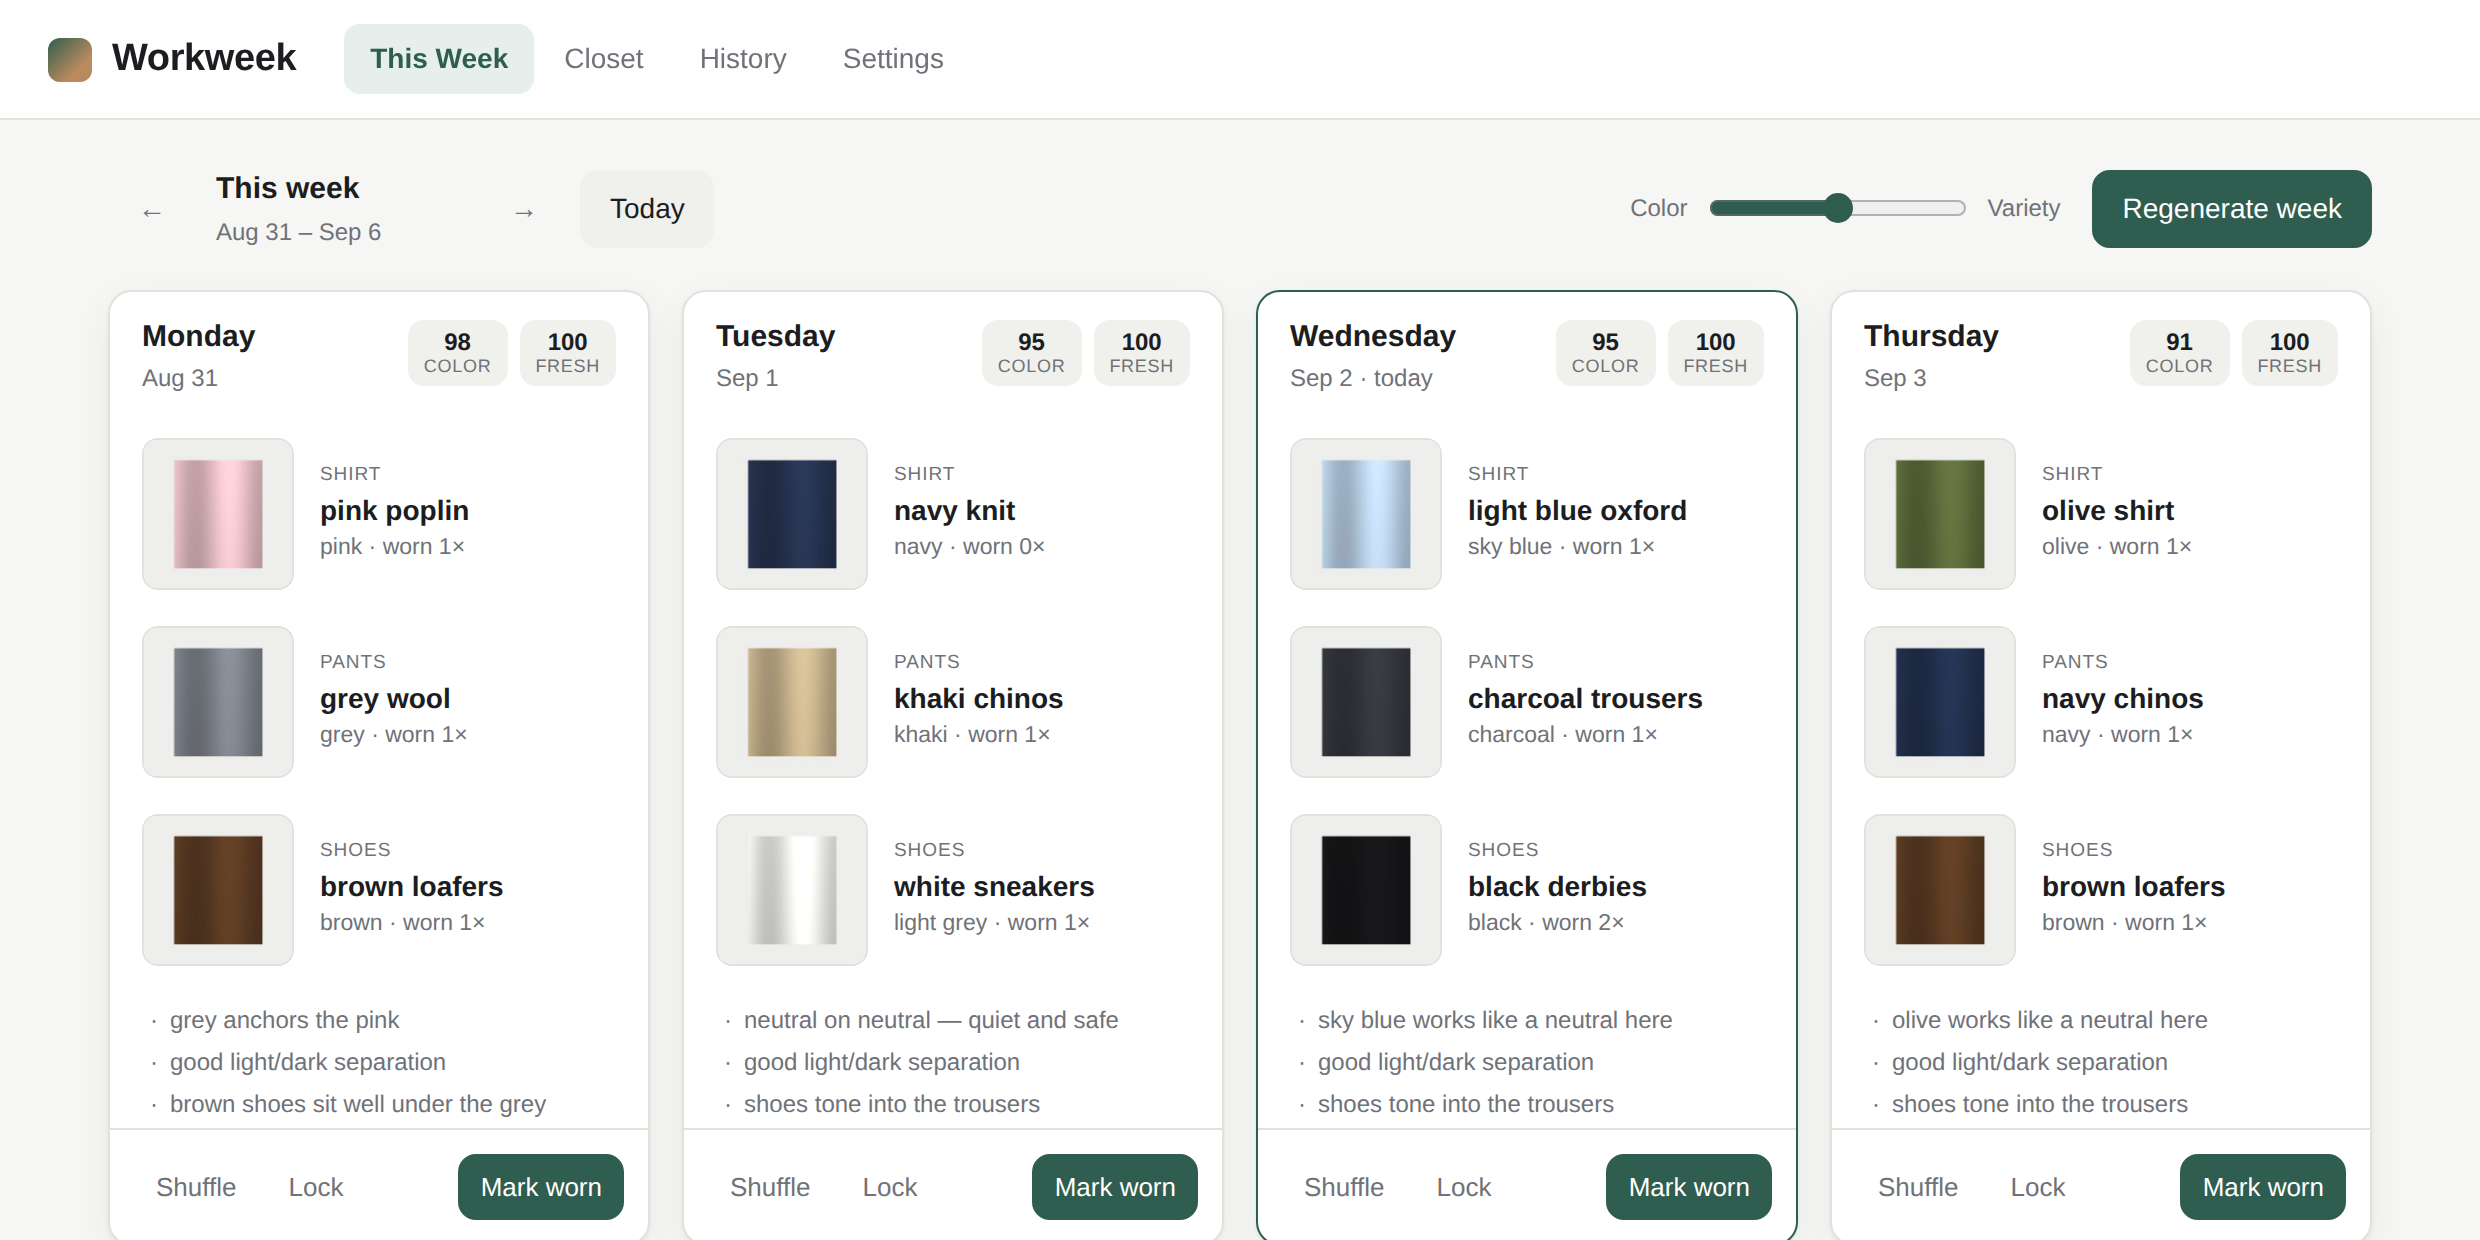
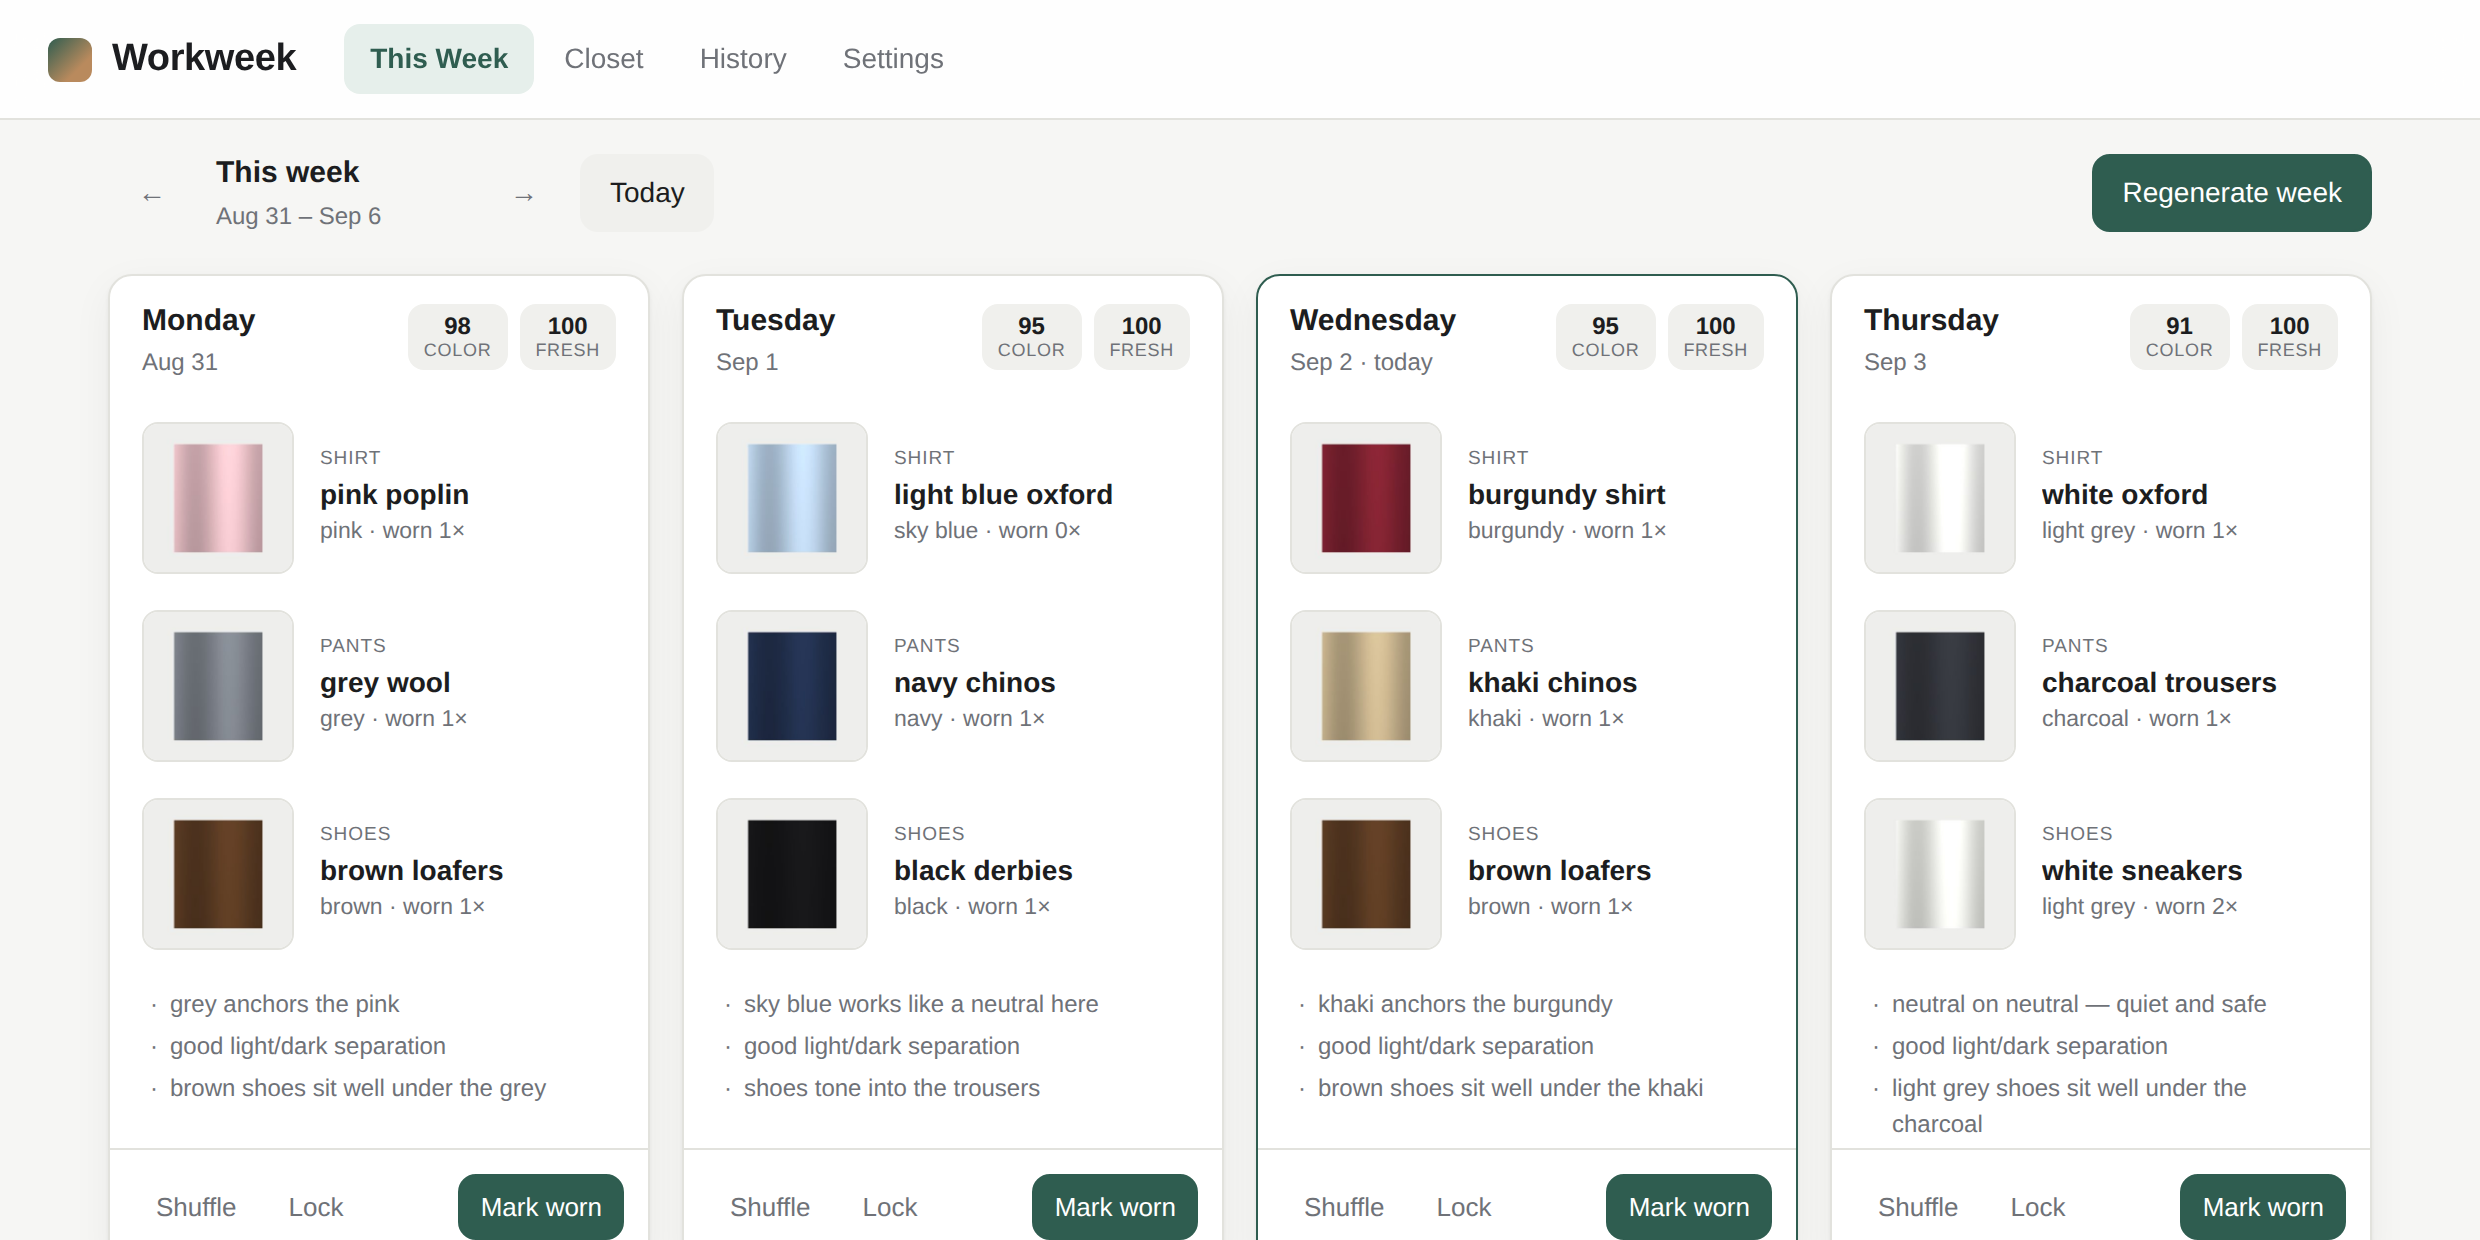
Remove the color/variety slider and fix the balance at a measured value
The blend is no longer a user setting. It is a constant in outfit.js, chosen by
simulation rather than taste, with the numbers recorded next to it.

Twelve-week runs, 20 per weight, over a 10-shirt / 7-trouser closet:

  weight   avg color   shirt spread   runs with spread <= 1
    0.50       94.0        1.00              20/20
    0.60       93.9        1.10              18/20
    0.70       94.0        1.10              18/20
    0.90       95.8       14.50   pieces going entirely unworn

Colour quality is flat between 0.5 and 0.7, so favouring it harder buys
nothing, and past 0.8 rotation collapses. 0.5 holds every wear count within one
of every other while scoring as well on colour as anything above it.

An earlier attempt made the weight adapt to the closet — leaning on variety
when some pieces had fallen behind, on colour when the rotation was even. It is
not in this commit because measuring it showed it earned nothing: newly added
clothes are scheduled in their first week at every weight from 0.3 to 0.7
(40/40 runs), since the variety score already scores a never-worn item at 100
on its own. Against a flat 0.5 the adaptive version was worse on rotation
(18/20 runs within one wear, against 20/20) and identical on colour.

Removes colorWeight from the stored settings; an old saved value is ignored
rather than honoured, which a test covers.

Claude-Session: https://claude.ai/code/session_017diFJ6E3PX5swqonS2Gxdn

diff --git a/tests/engine.test.js b/tests/engine.test.js
@@ -104,7 +104,7 @@ const closet = [
    ['suede chukkas', '#8a6a48']].map((r, i) => mk('h' + i, r[0], 'shoes', r[1]))
 );
 
-const settings = { workDays: [1, 2, 3, 4], colorWeight: 0.5, minGapDays: 10, pairGapDays: 90 };
+const settings = { workDays: [1, 2, 3, 4], minGapDays: 10, pairGapDays: 90 };
 const dates = Outfit.workDatesFor(Outfit.weekStart(new Date(2026, 0, 5)), settings.workDays);
 
 const week = Outfit.generateWeek({ dates, items: closet, outfits: [], settings });
@@ -190,16 +190,27 @@ t('pairings are mostly fresh',
   new Set(history.map(o => o.shirtId + '|' + o.pantsId)).size, atLeast(25));
 
 /* ---------------------------- variety weighting ---------------------------- */
-section('variety weighting');
+section('the color/variety balance');
+t('the balance is fixed, not user-tunable',
+  typeof Outfit.COLOR_WEIGHT === 'number' && Outfit.COLOR_WEIGHT > 0 && Outfit.COLOR_WEIGHT < 1, is(true));
+t('it does not sit where rotation collapses (measured above 0.8)',
+  Outfit.COLOR_WEIGHT <= 0.7, is(true));
+t('it does not ignore color either',
+  Outfit.COLOR_WEIGHT >= 0.3, is(true));
+t('a settings colorWeight is ignored if an old saved one is present', (() => {
+  const rigged = Object.assign({}, settings, { colorWeight: 1 });
+  const a = Outfit.generateWeek({ dates, items: closet, outfits: [], settings: rigged });
+  return a.days.length === 4 && a.days.every(d => d.colorScore >= 0 && d.varietyScore >= 0);
+})(), is(true));
+
+section('variety still reaches neglected clothes');
 const stale = closet.map(i => Object.assign({}, i));
 const target = stale.find(i => i.id === 's4');
 stale.forEach(i => { if (i.category === 'shirt') { i.wearCount = 9; i.lastWorn = '2026-01-01'; } });
 target.wearCount = 0; target.lastWorn = null;
 
-const varietyFirst = Outfit.generateWeek({
-  dates, items: stale, outfits: [], settings: Object.assign({}, settings, { colorWeight: 0 })
-});
-t('with variety weighted fully, the never-worn shirt is scheduled',
+const varietyFirst = Outfit.generateWeek({ dates, items: stale, outfits: [], settings });
+t('the never-worn shirt is scheduled without anyone asking for it',
   varietyFirst.days.some(d => d.shirtId === 's4'), is(true));
 
 const stats = Outfit.buildStats(stale);

diff --git a/js/outfit.js b/js/outfit.js
@@ -9,6 +9,26 @@
 const Outfit = (function () {
 
   const DAY_MS = 86400000;
+
+  /*
+   * How much color harmony counts against rotation, 0 to 1. This used to be a
+   * slider; it is fixed here because measurement says the interesting range is
+   * narrow and one value sits at the top of it.
+   *
+   * Over twelve-week simulations (20 runs each, 10 shirts / 7 trousers):
+   *
+   *   weight   avg color   shirt spread   runs with spread <= 1
+   *     0.50       94.0        1.00              20/20
+   *     0.60       93.9        1.10              18/20
+   *     0.70       94.0        1.10              18/20
+   *     0.90       95.8       14.50   pieces going entirely unworn
+   *
+   * Color quality is flat from 0.5 to 0.7, so there is nothing to buy by
+   * pushing higher, and past 0.8 rotation collapses. 0.5 is the value that
+   * holds every wear count within one of every other while scoring as well on
+   * color as anything above it.
+   */
+  const COLOR_WEIGHT = 0.5;
   const DAY_NAMES = ['Sunday', 'Monday', 'Tuesday', 'Wednesday', 'Thursday', 'Friday', 'Saturday'];
 
   /* ---------------------- date helpers ---------------------- */
@@ -163,8 +183,7 @@ const Outfit = (function () {
       }
     }
 
-    const w = settings.colorWeight;
-    const total = w * color.score + (1 - w) * variety;
+    const total = COLOR_WEIGHT * color.score + (1 - COLOR_WEIGHT) * variety;
 
     return {
       shirt, pants, shoes,
@@ -345,6 +364,7 @@ const Outfit = (function () {
 
   return {
     DAY_NAMES, toKey, fromKey, weekStart, workDatesFor, daysBetween,
-    generateWeek, regenerateDay, colorScoreFor, itemVariety, buildStats
+    generateWeek, regenerateDay, colorScoreFor, itemVariety, buildStats,
+    COLOR_WEIGHT
   };
 })();

diff --git a/js/app.js b/js/app.js
@@ -111,15 +111,6 @@
     });
     $('#regenerate').addEventListener('click', () => buildWeek({ force: true }));
 
-    const slider = $('#weight-slider');
-    slider.addEventListener('input', () => {
-      state.settings.colorWeight = Number(slider.value) / 100;
-    });
-    slider.addEventListener('change', () => {
-      Store.saveSettings({ colorWeight: state.settings.colorWeight })
-        .then(() => buildWeek({ force: true }));
-    });
-
     bindClosetEvents();
     bindSettingsEvents();
   }
@@ -215,7 +206,6 @@
     const fmt = new Intl.DateTimeFormat(undefined, { month: 'short', day: 'numeric' });
     const end = new Date(monday); end.setDate(end.getDate() + 6);
     $('#week-range').textContent = `${fmt.format(monday)} – ${fmt.format(end)}`;
-    $('#weight-slider').value = Math.round((1 - state.settings.colorWeight) * 100);
 
     const grid = $('#day-grid');
     const empty = $('#week-empty');
@@ -853,7 +843,6 @@
     });
     $('#min-gap').value = state.settings.minGapDays;
     $('#pair-gap').value = state.settings.pairGapDays;
-    $('#weight-slider').value = Math.round((1 - state.settings.colorWeight) * 100);
   }
 
   function bindSettingsEvents() {

diff --git a/index.html b/index.html
@@ -35,11 +35,6 @@
         <button class="btn btn-ghost" id="week-today">Today</button>
       </div>
       <div class="week-actions">
-        <label class="slider-wrap" title="Bias the generator toward color harmony or toward wearing under-used pieces">
-          <span class="slider-end">Color</span>
-          <input type="range" id="weight-slider" min="0" max="100" value="50">
-          <span class="slider-end">Variety</span>
-        </label>
         <button class="btn btn-primary" id="regenerate">Regenerate week</button>
       </div>
     </div>

diff --git a/styles.css b/styles.css
@@ -128,10 +128,6 @@ main { max-width: 1180px; margin: 0 auto; padding: 24px; }
 
 .week-actions { display: flex; align-items: center; gap: 16px; flex-wrap: wrap; }
 
-.slider-wrap { display: flex; align-items: center; gap: 8px; font-size: 12px; color: var(--muted); }
-.slider-wrap input { width: 130px; accent-color: var(--accent); }
-.slider-end { white-space: nowrap; }
-
 .day-grid {
   display: grid; gap: 16px;
   grid-template-columns: repeat(auto-fill, minmax(270px, 1fr));

diff --git a/js/db.js b/js/db.js
@@ -9,7 +9,6 @@ const DB = (function () {
 
   const DEFAULT_SETTINGS = {
     workDays: [1, 2, 3, 4],   // Mon-Thu (JS day numbers)
-    colorWeight: 0.5,         // 0 = pure variety, 1 = pure color harmony
     minGapDays: 10,           // soft floor before an item repeats
     pairGapDays: 90           // soft floor before a shirt+pants pairing repeats
   };

diff --git a/README.md b/README.md
@@ -41,7 +41,6 @@ To put it online, push this repo and turn on **GitHub Pages** (Settings → Page
    - **Mark worn** logs it, which is what feeds the variety tracking. This is
      the one habit the app needs from you — without it, it can't know what
      you've actually worn.
-   - The **Color ↔ Variety** slider decides how the two priorities trade off.
 3. **History** — what you've worn, how much of your closet you've actually got
    through, and which pieces are still sitting unworn.
 4. **Settings** — work days, rotation gaps, and backup.
@@ -51,8 +50,13 @@ rotation — laundry, seasonal, or a shirt you've gone off.
 
 ## How outfits get picked
 
-Every possible shirt + pants + shoes combination is scored on two axes, and the
-slider sets the blend.
+Every possible shirt + pants + shoes combination is scored on two axes, blended
+at a fixed weight of 0.5 — see `COLOR_WEIGHT` in `js/outfit.js` for the
+simulation results behind that number. Briefly: color quality is flat anywhere
+between 0.5 and 0.7, so there is nothing to gain by favouring it harder, while
+past 0.8 rotation falls apart and pieces stop being worn at all. 0.5 keeps every
+wear count within one of every other and scores as well on color as anything
+above it.
 
 ### Color
 
